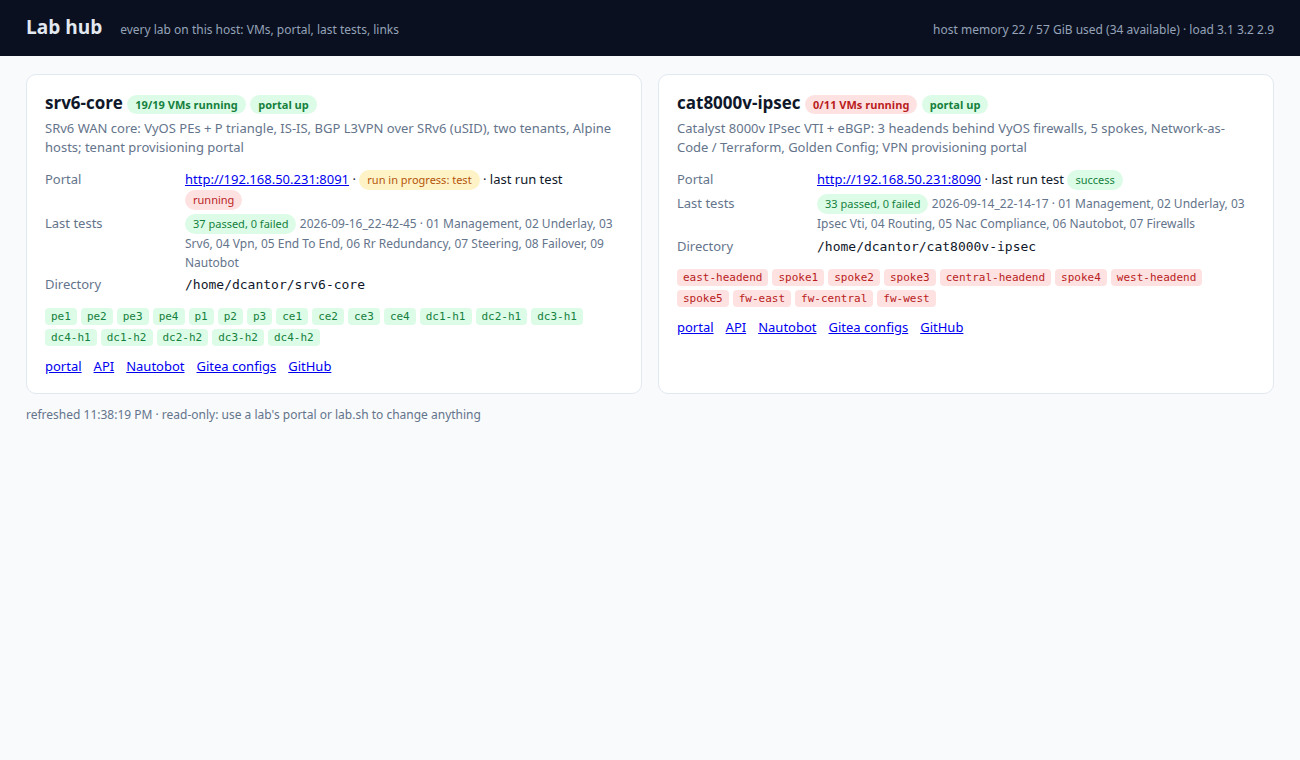
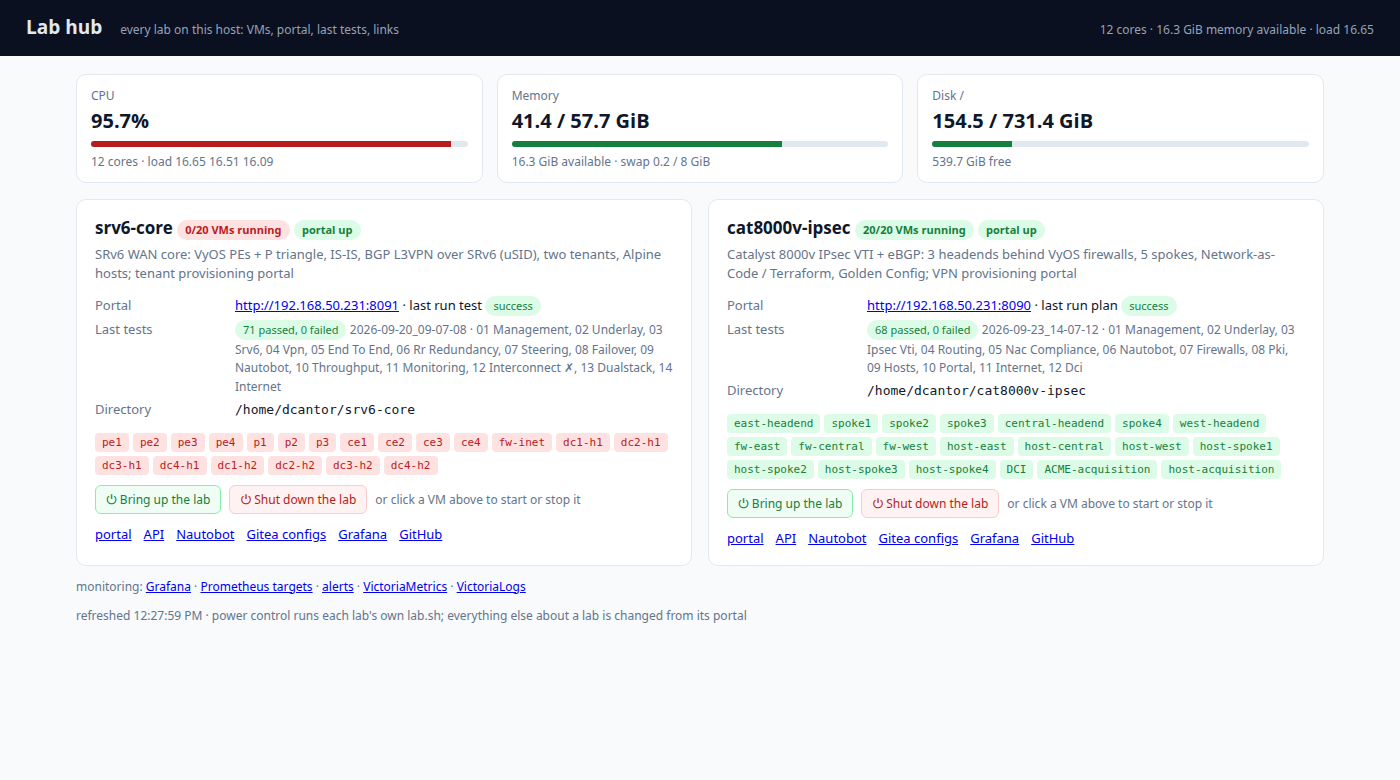
Lab hub: power a lab up or down (whole lab or a single VM), and show what the host has left
The hub could tell you a lab was down but not do anything about it — you went to a terminal for that. It now powers
labs, by running each lab's own lab.sh, so a shutdown still saves every router's configuration first and the page shows
exactly what the command printed:

  POST /api/labs/{lab}/power {"action": "up"|"down", "nodes": [], "confirm": true}
  GET  /api/labs/{lab}/power        the current or last operation, with lab.sh's output

Two buttons per lab for the whole thing, and every VM name is a switch — click a green one to shut it down, a red one to
start it. Each asks first and says what it costs. Guards: one operation at a time per lab (409), the whole lab needs
confirm: true, an unknown node is refused, and a shutdown is refused while that lab's portal has a run in progress
(force: true overrides) so nothing pulls the rug from under a Terraform apply. LAB_HUB_POWER=off restores the old
read-only hub.

The page also gained the host itself: CPU busy percentage (sampled from /proc/stat by a background thread, so a page
load never waits), load and cores; memory with swap; and every filesystem the labs live on — each with a bar that turns
amber at 75% and red at 90%.

Verified on the live host: a single VM stopped and started again through the API, the whole-lab "up" path against an
already-running lab (idempotent, "already running" per node), two simultaneous requests colliding into a 409, and the
[…]

diff --git a/labportal/hub/static/index.html b/labportal/hub/static/index.html
@@ -10,14 +10,67 @@
   .kv { display:grid; grid-template-columns:130px 1fr; gap:4px 10px; font-size:13px } .kv dt { color:var(--muted) } .kv dd { margin:0 }
   .vms { display:flex; flex-wrap:wrap; gap:4px; margin-top:8px } .vm { font:11px ui-monospace, monospace; padding:2px 6px; border-radius:4px; background:#fee2e2; color:var(--bad) } .vm.running { background:#dcfce7; color:var(--ok) }
   .links a { margin-right:12px; font-size:13px } .links { margin-top:10px } .hint { color:var(--muted); font-size:12px }
+  button { font:inherit; font-size:12px; padding:5px 10px; border:1px solid var(--line); border-radius:6px; background:#fff; color:var(--ink); cursor:pointer }
+  button:hover:not(:disabled) { border-color:#94a3b8 } button:disabled { opacity:.5; cursor:not-allowed }
+  button.up { border-color:#86efac; background:#f0fdf4; color:var(--ok) } button.down { border-color:#fecaca; background:#fef2f2; color:var(--bad) }
+  .power { display:flex; flex-wrap:wrap; gap:8px; align-items:center; margin-top:10px }
+  .vm { cursor:pointer; border:1px solid transparent } .vm:hover { border-color:#94a3b8 }
+  .op { margin-top:8px; font-size:12px; border-left:3px solid #94a3b8; padding:4px 0 4px 8px; color:var(--muted) }
+  .op.running { border-color:var(--warn) } .op.failed { border-color:var(--bad); color:var(--bad) } .op.done { border-color:var(--ok) }
+  .op pre { margin:4px 0 0; font:11px/1.35 ui-monospace, monospace; max-height:120px; overflow:auto; white-space:pre-wrap }
+  .host { display:grid; grid-template-columns:repeat(auto-fit, minmax(210px, 1fr)); gap:14px; margin-bottom:16px }
+  .stat { background:#fff; border:1px solid var(--line); border-radius:10px; padding:12px 14px }
+  .stat .l { color:var(--muted); font-size:12px } .stat .v { font-size:20px; font-weight:600; margin:2px 0 6px }
+  .stat .s { color:var(--muted); font-size:12px }
+  .bar { height:6px; border-radius:3px; background:#e2e8f0; overflow:hidden; margin-bottom:6px } .bar > i { display:block; height:100%; background:var(--ok) }
+  .bar > i.warn { background:#f59e0b } .bar > i.bad { background:var(--bad) }
 </style></head><body>
 <header><h1>Lab hub</h1><span class="sub">every lab on this host: VMs, portal, last tests, links</span><span class="right" id="host"></span></header>
-<main><div class="grid" id="labs"></div><p class="hint" id="mon"></p><p class="hint" id="gen"></p></main>
+<main><div class="host" id="hoststats"></div><div class="grid" id="labs"></div><p class="hint" id="mon"></p><p class="hint" id="gen"></p></main>
 <script>
 const esc = s => String(s ?? '').replace(/[&<>"]/g, c => ({'&':'&amp;','<':'&lt;','>':'&gt;','"':'&quot;'}[c]));
+let POWER = true, timer = null;
+const busy = l => l.power && l.power.status === 'running';
+
+// what the lab is doing, or what it last did: lab.sh's own output, tail first
+function opView(op) {
+  if (!op) return '';
+  const what = `${op.action === 'up' ? 'bringing up' : 'shutting down'} ${op.nodes.length ? op.nodes.join(', ') : 'the whole lab'}`;
+  const head = op.status === 'running' ? `⏳ ${what}…`
+    : `${op.status === 'done' ? '✓' : '✕'} ${op.action === 'up' ? 'brought up' : 'shut down'} ${op.nodes.length ? op.nodes.join(', ') : 'the whole lab'}`
+      + ` · ${new Date((op.finished || op.started) * 1000).toLocaleTimeString()} · ${Math.round(((op.finished || Date.now() / 1000) - op.started))}s`;
+  return `<div class="op ${esc(op.status)}">${esc(head)}${op.log && op.log.length ? `<pre>${esc(op.log.slice(-6).join('\n'))}</pre>` : ''}</div>`;
+}
+
+async function power(lab, action, nodes, question) {
+  if (!confirm(question)) return;
+  const r = await fetch(`/api/labs/${encodeURIComponent(lab)}/power`, { method: 'POST', headers: { 'content-type': 'application/json' },
+                                                                        body: JSON.stringify({ action, nodes, confirm: true }) });
+  if (!r.ok) { const e = await r.json().catch(() => ({})); alert(typeof e.detail === 'string' ? e.detail : JSON.stringify(e.detail)); return; }
+  load();                       // the operation shows up straight away; the poll below follows it
+}
+// the host itself: what CPU, memory and disk are left for the labs
+function bar(pct) { const c = pct >= 90 ? 'bad' : pct >= 75 ? 'warn' : ''; return `<div class="bar"><i class="${c}" style="width:${Math.min(100, pct || 0)}%"></i></div>`; }
+
+function renderHost(h) {
+  if (!h) return;
+  const cpu = h.cpu || {}, mem = h.memory, disks = h.disks || [];
+  const cards = [];
+  cards.push(`<div class="stat"><div class="l">CPU</div><div class="v">${cpu.pct == null ? '–' : cpu.pct + '%'}</div>
+    ${bar(cpu.pct)}<div class="s">${cpu.cores} cores · load ${(cpu.load || []).join(' ')}</div></div>`);
+  if (mem) cards.push(`<div class="stat"><div class="l">Memory</div><div class="v">${mem.used_gib} / ${mem.total_gib} GiB</div>
+    ${bar(mem.pct)}<div class="s">${mem.available_gib} GiB available${mem.swap_total_gib ? ` · swap ${mem.swap_used_gib} / ${mem.swap_total_gib} GiB` : ''}</div></div>`);
+  disks.forEach(dk => cards.push(`<div class="stat"><div class="l">Disk ${esc(dk.path)}</div><div class="v">${dk.used_gib} / ${dk.total_gib} GiB</div>
+    ${bar(dk.pct)}<div class="s">${dk.free_gib} GiB free</div></div>`));
+  const running = [...document.querySelectorAll('.vm.running')].length;
+  document.getElementById('hoststats').innerHTML = cards.join('');
+  document.getElementById('host').textContent = `${cpu.cores} cores · ${mem ? mem.available_gib + ' GiB memory available' : ''} · load ${(cpu.load || [])[0]}`;
+}
+
 async function load() {
   const d = await (await fetch('/api/labs')).json();
-  document.getElementById('host').textContent = d.host.memory ? `host memory ${d.host.used_gib ?? d.host.memory.used_gib} / ${d.host.memory.total_gib} GiB used (${d.host.memory.available_gib} available) · load ${d.host.load.map(x => x.toFixed(1)).join(' ')}` : '';
+  POWER = d.power_enabled !== false;
+  renderHost(d.host);
   document.getElementById('labs').innerHTML = d.labs.map(l => {
     const ph = l.portal_health, t = l.tests; const vmcls = l.running === 0 ? 'bad' : (l.running === l.total ? 'ok' : 'warn');
     return `<div class="card"><h2><a href="${l.portal}" target="_blank">${esc(l.name)}</a> <span class="pill ${vmcls}">${l.running}/${l.total} VMs running</span> <span class="pill ${ph.up ? 'ok' : 'bad'}">portal ${ph.up ? 'up' : 'down'}</span></h2>
@@ -25,10 +78,36 @@ async function load() {
       <dl class="kv"><dt>Portal</dt><dd><a href="${l.portal}" target="_blank">${l.portal}</a>${ph.active ? ` · <span class="pill warn">run in progress: ${esc(ph.active.mode)}</span>` : ''}${ph.last ? ` · last run ${esc(ph.last.mode)} <span class="pill ${ph.last.status === 'success' ? 'ok' : 'bad'}">${esc(ph.last.status)}</span>` : ''}</dd>
       <dt>Last tests</dt><dd>${t ? (t.error ? esc(t.error) : `<span class="pill ${t.failed ? 'bad' : 'ok'}">${t.passed} passed, ${t.failed} failed</span> <span class="hint">${esc(t.when)} · ${t.suites.map(s => esc(s.name.replace(/^\\d+ /, '')) + (s.status === 'PASS' ? '' : ' ✗')).join(', ')}</span>`) : '<span class="hint">no results yet</span>'}</dd>
       <dt>Directory</dt><dd><code>${esc(l.dir)}</code></dd></dl>
-      <div class="vms">${Object.entries(l.vms).filter(([, v]) => typeof v === 'object' && v.state).map(([n, v]) => `<span class="vm ${v.state === 'running' ? 'running' : ''}" title="${esc(v.role)} · ${esc(v.state)}">${esc(n)}</span>`).join('')}</div>
+      <div class="vms">${Object.entries(l.vms).filter(([, v]) => typeof v === 'object' && v.state).map(([n, v]) => `<span class="vm ${v.state === 'running' ? 'running' : ''}" data-lab="${esc(l.name)}" data-node="${esc(n)}" data-state="${esc(v.state)}" title="${esc(v.role)} · ${esc(v.state)} — click to ${v.state === 'running' ? 'shut down' : 'start'}">${esc(n)}</span>`).join('')}</div>
+      ${POWER ? `<div class="power">
+        <button class="up" data-lab="${esc(l.name)}" data-action="up" ${busy(l) ? 'disabled' : ''} title="start every VM of this lab (lab.sh up)">⏻ Bring up the lab</button>
+        <button class="down" data-lab="${esc(l.name)}" data-action="down" ${busy(l) ? 'disabled' : ''} title="stop every VM of this lab — each router saves its configuration first (lab.sh down)">⏻ Shut down the lab</button>
+        <span class="hint">or click a VM above to start or stop it</span></div>` : ''}
+      ${opView(l.power)}
       <div class="links"><a href="${l.portal}" target="_blank">portal</a><a href="${l.portal}/docs" target="_blank">API</a><a href="${l.nautobot}" target="_blank">Nautobot</a>${l.gitea ? `<a href="${l.gitea}" target="_blank">Gitea configs</a>` : ''}${l.grafana ? `<a href="${l.grafana}" target="_blank">Grafana</a>` : ''}<a href="${l.repo}" target="_blank">GitHub</a></div></div>`; }).join('');
   const m = d.monitoring || {}; document.getElementById('mon').innerHTML = m.grafana ? `monitoring: <a href="${m.grafana}" target="_blank">Grafana</a> · <a href="${m.prometheus}/targets" target="_blank">Prometheus targets</a> · <a href="${m.prometheus}/alerts" target="_blank">alerts</a> · <a href="${m.victoriametrics}/vmui" target="_blank">VictoriaMetrics</a>${m.victorialogs ? ` · <a href="${m.victorialogs}/select/vmui" target="_blank">VictoriaLogs</a>` : ''}` : '';
-  document.getElementById('gen').textContent = 'refreshed ' + new Date(d.generated * 1000).toLocaleTimeString() + ' · read-only: use a lab\'s portal or lab.sh to change anything';
+  schedule(d.labs);
+  document.getElementById('gen').textContent = 'refreshed ' + new Date(d.generated * 1000).toLocaleTimeString()
+    + (POWER ? ' · power control runs each lab\'s own lab.sh; everything else about a lab is changed from its portal'
+             : ' · read-only: use a lab\'s portal or lab.sh to change anything');
 }
+// while a lab is powering up or down, follow it closely; otherwise the slow refresh is plenty
+function schedule(labs) {
+  clearInterval(timer);
+  timer = setInterval(load, labs.some(busy) ? 4000 : 30000);
+}
+document.addEventListener('click', e => {
+  const b = e.target.closest('button[data-action]');
+  if (b) return power(b.dataset.lab, b.dataset.action, [],
+                      b.dataset.action === 'up' ? `Bring up every VM of ${b.dataset.lab}?\n\nThe routers take a few minutes to boot.`
+                                                : `Shut down every VM of ${b.dataset.lab}?\n\nEach router saves its configuration first. The lab is unusable until you bring it back up.`);
+  const vm = e.target.closest('.vm[data-node]');
+  if (vm && POWER) {
+    const running = vm.dataset.state === 'running', node = vm.dataset.node;
+    power(vm.dataset.lab, running ? 'down' : 'up', [node],
+          running ? `Shut down ${node} in ${vm.dataset.lab}?\n\nIt is running. A router saves its configuration first; anything using it loses it until you start it again.`
+                  : `Start ${node} in ${vm.dataset.lab}?\n\nIt is shut off; a router can take a few minutes to boot.`);
+  }
+});
 load(); setInterval(load, 30000);
 </script></body></html>

diff --git a/labportal/hub/app.py b/labportal/hub/app.py
@@ -3,18 +3,70 @@
 portal, Nautobot, Gitea and GitHub. Labs are declared in ~/.config/lab-hub/labs.json (or $LAB_HUB_CONFIG):
   [{"name": "srv6-core", "dir": "/home/dcantor/srv6-core", "portal": "http://192.168.50.231:8091", "repo": "https://github.com/dcantor/srv6-core",
     "description": "...", "gitea": "http://192.168.50.231:3000/lab/srv6-core-configs"}, ...]
-Read-only by design: it never starts, stops or changes a lab. Run with `lab-hub` (uvicorn, port 8088)."""
-import json, os, re, subprocess, time, xml.etree.ElementTree as ET
+It reads the labs, and it can **power them**: a whole lab up or down, or any single VM, by running that lab's own
+`lab.sh up|down [node...]` — the same command an operator would type, so a shutdown still saves each router's
+configuration first. Nothing else about a lab is changed here; provisioning stays in the lab's own portal.
+Set LAB_HUB_POWER=off to make the hub read-only again. Run with `lab-hub` (uvicorn, port 8088)."""
+import json, os, re, shutil, subprocess, threading, time, uuid, xml.etree.ElementTree as ET
 from pathlib import Path
-from fastapi import FastAPI
+from fastapi import FastAPI, HTTPException
 from fastapi.responses import FileResponse
+from pydantic import BaseModel
 import requests
 
 CONFIG = Path(os.environ.get("LAB_HUB_CONFIG", Path.home() / ".config" / "lab-hub" / "labs.json"))
 MONITORING = json.loads(os.environ["LAB_HUB_MONITORING"]) if os.environ.get("LAB_HUB_MONITORING") else \
     {"grafana": "http://192.168.50.231:3001", "prometheus": "http://192.168.50.231:9091", "victoriametrics": "http://192.168.50.231:8428", "victorialogs": "http://192.168.50.231:9428"}   # the stack in ../monitoring on the NMS
 NAUTOBOT = os.environ.get("NAUTOBOT_PUBLIC_URL", "http://192.168.50.231:8080")
+POWER = os.environ.get("LAB_HUB_POWER", "on") != "off"      # the hub may be made read-only again
+POWER_TIMEOUT = int(os.environ.get("LAB_HUB_POWER_TIMEOUT", "2400"))
 app = FastAPI(title="Lab hub", version="1.0", description="Every lab on this host at a glance: VM state, portal health, last tests, links.")
+
+
+# ---- the host: CPU, memory, disk -------------------------------------------------------------------------------------
+_cpu = {"pct": None, "cores": os.cpu_count() or 1, "prev": None}
+
+
+def _cpu_sample():
+    """Busy percentage from /proc/stat deltas, kept fresh by a thread so a page load never has to wait for a sample."""
+    while True:
+        try:
+            parts = [int(x) for x in Path("/proc/stat").read_text().split("\n")[0].split()[1:]]
+            idle, total = parts[3] + parts[4], sum(parts)
+            prev = _cpu["prev"]; _cpu["prev"] = (idle, total)
+            if prev and total > prev[1]:
+                _cpu["pct"] = round(100 * (1 - (idle - prev[0]) / (total - prev[1])), 1)
+        except Exception:                                     # noqa: BLE001 — statistics must never break the page
+            pass
+        time.sleep(5)
+
+
+def host_stats():
+    """What the host has left: CPU, memory (and swap), and the filesystems the labs live on."""
+    out = {"cpu": {"pct": _cpu["pct"], "cores": _cpu["cores"], "load": [round(x, 2) for x in os.getloadavg()]}}
+    try:
+        mem = {}
+        for line in Path("/proc/meminfo").read_text().splitlines():
+            k, v = line.split(":", 1); mem[k] = int(v.strip().split()[0]) // 1024        # MiB
+        total, avail = mem["MemTotal"], mem.get("MemAvailable", mem["MemFree"])
+        out["memory"] = {"total_gib": round(total / 1024, 1), "used_gib": round((total - avail) / 1024, 1),
+                         "available_gib": round(avail / 1024, 1), "pct": round(100 * (total - avail) / total, 1),
+                         "swap_total_gib": round(mem.get("SwapTotal", 0) / 1024, 1),
+                         "swap_used_gib": round((mem.get("SwapTotal", 0) - mem.get("SwapFree", 0)) / 1024, 1)}
+    except Exception:                                         # noqa: BLE001
+        out["memory"] = None
+    disks, seen = [], set()
+    for path in ["/"] + [l["dir"] for l in labs()]:
+        try:
+            st = os.stat(path)
+            if st.st_dev in seen: continue                    # the labs usually sit on the root filesystem
+            seen.add(st.st_dev); u = shutil.disk_usage(path)
+            disks.append({"path": path, "total_gib": round(u.total / 2**30, 1), "used_gib": round(u.used / 2**30, 1),
+                          "free_gib": round(u.free / 2**30, 1), "pct": round(100 * u.used / u.total, 1)})
+        except Exception:                                     # noqa: BLE001
+            pass
+    out["disks"] = disks
+    return out
 
 
 def labs():
@@ -65,11 +117,72 @@ def api_labs():
     for lab in labs():
         vms = vm_states(lab["dir"]); running = sum(1 for v in vms.values() if isinstance(v, dict) and v.get("state") == "running")
         out.append({**lab, "vms": vms, "running": running, "total": len([v for v in vms.values() if isinstance(v, dict)]), "portal_health": portal_health(lab["portal"]),
-                    "tests": last_tests(lab["dir"]), "nautobot": lab.get("nautobot", NAUTOBOT)})
+                    "tests": last_tests(lab["dir"]), "nautobot": lab.get("nautobot", NAUTOBOT), "power": OPS.get(lab["name"])})
+    return {"labs": out, "host": host_stats(), "monitoring": MONITORING, "power_enabled": POWER, "generated": time.time()}
+
+
+# ---- powering a lab: one operation at a time per lab, run in the background ------------------------------------------
+OPS = {}            # lab name -> the current or last operation
+_ops_lock = threading.Lock()
+
+
+class PowerRequest(BaseModel):
+    action: str                                  # up | down
+    nodes: list[str] = []                        # empty = the whole lab
+    confirm: bool = False                        # required for the whole lab: it is every VM of it
+    force: bool = False                          # shut down even though the lab's portal has a run in progress
+
+
+def _run_power(lab, op):
+    """`lab.sh up|down [node...]` with its output kept, so the page can show what happened."""
+    cmd = [str(Path(lab["dir"]) / "lab.sh"), op["action"], *op["nodes"]]
     try:
-        free = subprocess.run(["free", "-g"], capture_output=True, text=True).stdout.splitlines()[1].split(); mem = {"total_gib": int(free[1]), "used_gib": int(free[2]), "available_gib": int(free[6])}
-    except Exception: mem = None
-    return {"labs": out, "host": {"memory": mem, "load": os.getloadavg()}, "monitoring": MONITORING, "generated": time.time()}
+        r = subprocess.run(cmd, capture_output=True, text=True, timeout=POWER_TIMEOUT)
+        op["log"] = [l for l in (r.stdout + r.stderr).splitlines() if l.strip()][-200:]
+        op["status"] = "done" if r.returncode == 0 else "failed"
+        op["returncode"] = r.returncode
+    except subprocess.TimeoutExpired:
+        op["status"] = "failed"; op["log"] = [f"timed out after {POWER_TIMEOUT}s"]
+    except Exception as e:                       # noqa: BLE001
+        op["status"] = "failed"; op["log"] = [f"{e.__class__.__name__}: {e}"]
+    op["finished"] = time.time()
+
+
+@app.post("/api/labs/{name}/power", summary="Bring a lab up or shut it down — the whole lab, or the nodes you name")
+def power(name: str, req: PowerRequest):
+    """`{"action": "up"}` starts every VM of the lab, `{"action": "down"}` stops them (each router saves its configuration
+    first — it is that lab's own `lab.sh`). `nodes` limits it to those VMs; without `nodes` the whole lab is meant and
+    `confirm` must be true. One operation at a time per lab."""
+    if not POWER: raise HTTPException(403, "power control is disabled on this hub (LAB_HUB_POWER=off)")
+    lab = next((l for l in labs() if l["name"] == name), None)
+    if lab is None: raise HTTPException(404, f"no such lab: {name}")
+    if req.action not in ("up", "down"): raise HTTPException(422, "action must be up or down")
+    known = {n for n, v in vm_states(lab["dir"]).items() if isinstance(v, dict)}
+    unknown = [n for n in req.nodes if n not in known]
+    if unknown: raise HTTPException(422, f"no such node in {name}: {', '.join(unknown)}")
+    if not req.nodes and not req.confirm: raise HTTPException(422, f"this would {req.action} every VM of {name} — send confirm: true")
+    if req.action == "down" and not req.force:   # never pull the rug from under a Terraform apply
+        active = (portal_health(lab["portal"]) or {}).get("active")
+        if active: raise HTTPException(409, f"{name}: a {active['mode']} run is in progress ({active['id']}) — let it finish, or send force: true")
+    with _ops_lock:
+        cur = OPS.get(name)
+        if cur and cur["status"] == "running": raise HTTPException(409, f"{name} is already {cur['action']} ({', '.join(cur['nodes']) or 'the whole lab'})")
+        op = OPS[name] = {"id": uuid.uuid4().hex[:8], "lab": name, "action": req.action, "nodes": list(req.nodes),
+                          "started": time.time(), "finished": None, "status": "running", "log": [], "returncode": None}
+    threading.Thread(target=_run_power, args=(lab, op), name=f"power-{name}", daemon=True).start()
+    return op
+
+
+@app.get("/api/labs/{name}/power", summary="The current or last power operation of a lab")
+def power_status(name: str):
+    op = OPS.get(name)
+    if op is None: raise HTTPException(404, "no power operation for this lab yet")
+    return op
+
+
+@app.on_event("startup")
+def _start_sampler():
+    threading.Thread(target=_cpu_sample, name="cpu", daemon=True).start()
 
 
 def main():

diff --git a/README.md b/README.md
@@ -29,9 +29,22 @@ install_runs_api(app, registry, resume_factory=lambda d: Run(d["mode"], d.get("o
 ```
 
 ## The hub (`lab-hub`, port 8088)
-One page: every lab with its VMs (running / total, from `lab.sh status`), the portal's health and last run, the last
-Robot result (from `results/latest`), host memory and load, and links to the portal, its API, Nautobot, the Gitea
-configuration repo and GitHub. Read-only by design — it never starts, stops or changes a lab.
+One page: the host's **CPU, memory and disk** (busy percentage and load, memory with swap, every filesystem the labs
+live on — each with a bar), then every lab with its VMs (running / total, from `lab.sh status`), the portal's health and
+last run, the last Robot result (from `results/latest`), and links to the portal, its API, Nautobot, the Gitea
+configuration repo and GitHub.
+
+**Power**: each lab can be brought up or shut down from here — the whole lab with the two buttons, or any single VM by
+clicking its name. Every one of them asks first, saying what it will do and what it costs ("Shut down host-spoke2 in
+cat8000v-ipsec? It is running. A router saves its configuration first…"). The hub runs that lab's own `lab.sh up|down [node…]`, so a shutdown still saves each router's
+configuration first, and the page shows what the command printed. One operation at a time per lab; the whole lab needs
+an explicit confirmation (`confirm: true` on the API); and a shutdown is refused while the lab's portal has a run in
+progress, so nothing pulls the rug from under a Terraform apply (`force: true` overrides). `LAB_HUB_POWER=off` makes
+the hub read-only again. Everything else about a lab — provisioning, day-2 changes, tests — stays in its own portal.
+
+    POST /api/labs/cat8000v-ipsec/power  {"action": "up", "confirm": true}
+    POST /api/labs/cat8000v-ipsec/power  {"action": "down", "nodes": ["spoke1"]}
+    GET  /api/labs/cat8000v-ipsec/power                     # the current or last operation, with lab.sh's output
 
 Labs are declared in `~/.config/lab-hub/labs.json` (see `labs.example.json`); `lab-hub.service` is the systemd user unit.
 
